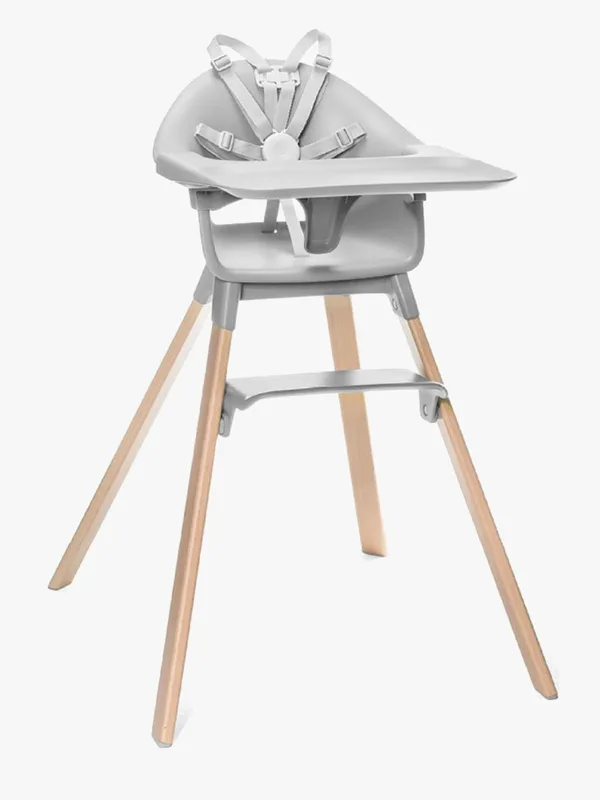
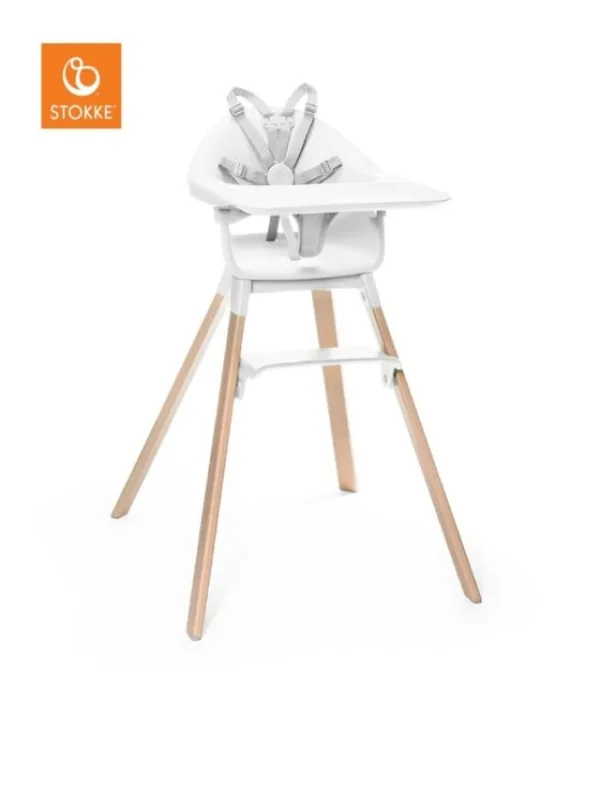
Fix 13 dead affiliate CTAs site-wide (dead product URLs redirecting to category pages)
- resestol #1: Stokke Clikk pekade på borttagen stolsdyna-URL -> Babyland Stokke Clikk matstol (Vit) + vit produktbild
- 7 same-store URL-byten (Jollyroom /babysitter/ -> /babysitters/ + omdöpta produktvägar): mam-nappar, beemoo-dally, bright-starts, ergobaby-evolve, beemoo-simple, ingenuity lära-gå-stol, besafe-stretch²
- 4 butiksbyten till exakt samma produkt: skip-hop->Babyland, hummel body Polignac->Babysam, nuna pine->Baby V, BabyBjörn Balance Soft (babysitter-vinnaren)->Baby V + prosa uppdaterad
- Städat 7 döda oanvända verified-links.ts entries

Alla ersättnings-URL:er feed-verifierade + destination live-kollad (200 direkt). Bygg + seo-audit + quality-gate grönt.

Changed region(s): [[0.06, 0.0312, 0.93, 0.9375], [0.06, 0.0312, 0.21, 0.1875]]

diff --git a/src/data/verified-links.ts b/src/data/verified-links.ts
@@ -28,7 +28,6 @@ export const VERIFIED_LINKS: Record<string, string> = {
   // (bekräftad fungerande via Adtraction broken-links 2026, samma som Babyland/Polarn O. Pyret).
   'Stor och Liten': 'https://at.storochliten.se/t/t?a=1060728464&as=2065068845&t=2&tk=1',
   // Bulk-importerade 2026-05-13 från befintliga tracker-URLs i pages (alla URLs kopierade exakt, inga konstruerade):
-  'Baby V_2': 'https://go.adt231.net/t/t?a=1327902115&as=2065068845&t=2&tk=1&url=https%3A%2F%2Fwww.babyv.se%2Fsv%2Farticles%2F2.73.167%2Fbabybjorn-barsele-one-air-svart-mesh',
   'Babyland_2': 'https://pin.babyland.se/t/t?a=1066444612&as=2065068845&t=2&tk=1&url=https%3A%2F%2Fwww.babyland.se%2Fbritax-romer-smile-5z-duovagn',
   'Babyland_3': 'https://pin.babyland.se/t/t?a=1066444612&as=2065068845&t=2&tk=1&url=https%3A%2F%2Fwww.babyland.se%2Fhauck-pacific-4-duovagn-gra-melange',
   'Babyland_4': 'https://pin.babyland.se/t/t?a=1066444612&as=2065068845&t=2&tk=1&url=https%3A%2F%2Fwww.babyland.se%2Fbritax-go-next2-paket',
@@ -38,7 +37,6 @@ export const VERIFIED_LINKS: Record<string, string> = {
   'Ergobaby_2': 'https://addrevenue.io/t?c=3467325&a=987575&m=SE&u=https%3A%2F%2Freirei.se%2Fproducts%2Felvie-pump-singel',
   'Ergobaby_3': 'https://addrevenue.io/t?c=3467325&a=987575&m=SE&u=https%3A%2F%2Freirei.se%2Fproducts%2Fergobaby-metro-3-stroller-onyx-black',
   'Ergobaby_4': 'https://addrevenue.io/t?c=3467325&a=987575&m=SE&u=https%3A%2F%2Freirei.se%2Fproducts%2Fergobaby-omni-360-svart',
-  'Ergobaby_5': 'https://addrevenue.io/t?a=987575&c=3467325&url=https%3A%2F%2Fwww.reirei.se%2Fbarselen',
   'Jollyroom_10': 'https://dot.jollyroom.se/t/t?a=1487384677&as=2065068845&t=2&tk=1&url=https%3A%2F%2Fwww.jollyroom.se%2Fmamma%2Famningsprodukter%2Fbrostpumpar-tillbehor%2Fphilips-avent-scf430-01-brostpump-manuell',
   'Jollyroom_100': 'https://dot.jollyroom.se/t/t?a=1487384677&as=2065068845&t=2&tk=1&url=https%3A%2F%2Fwww.jollyroom.se%2Fbabyprodukter%2Fbarselar-barsjalar%2Fbarselar%2Fflybaby-barsele-cinnamon',
   'Jollyroom_101': 'https://dot.jollyroom.se/t/t?a=1487384677&as=2065068845&t=2&tk=1&url=https%3A%2F%2Fwww.jollyroom.se%2Fbabyprodukter%2Fbarselar-barsjalar%2Fbarselar%2Fergobaby-embrace-barsele-pure-black',
@@ -107,9 +105,6 @@ export const VERIFIED_LINKS: Record<string, string> = {
   'Jollyroom_159': 'https://dot.jollyroom.se/t/t?a=1487384677&as=2065068845&t=2&tk=1&url=https%3A%2F%2Fwww.jollyroom.se%2Fbilstolar%2Fbilbarnstolar%2Fbakatvanda%2Fjoie-i-spin-xl-bilbarnstol-coal',
   'Jollyroom_16': 'https://dot.jollyroom.se/t/t?a=1487384677&as=2065068845&t=2&tk=1&url=https%3A%2F%2Fwww.jollyroom.se%2Fbabyprodukter%2Fnappar-napphallare%2Fnappar%2Fbibs-colour-napp-2-pack-latex-stl-1-rund-vanilla-glow-dark-oak-glow',
   'Jollyroom_160': 'https://dot.jollyroom.se/t/t?a=1487384677&as=2065068845&t=2&tk=1&url=https%3A%2F%2Fwww.jollyroom.se%2Fbarnvagnar%2Fsittvagnar%2Fjoie-pact-flex-signature-sittvagn-spice',
-  'Jollyroom_161': 'https://dot.jollyroom.se/t/t?a=1487384677&as=2065068845&t=2&tk=1&url=https%3A%2F%2Fwww.jollyroom.se%2Fsok%3Fq%3Dmaxi-cosi%2Bpebble%2B360%2Bpro',
-  'Jollyroom_162': 'https://dot.jollyroom.se/t/t?a=1487384677&as=2065068845&t=2&tk=1&url=https%3A%2F%2Fwww.jollyroom.se%2Fsok%3Fq%3Dmaxi-cosi%2Bcoral%2B360',
-  'Jollyroom_163': 'https://dot.jollyroom.se/t/t?a=1487384677&as=2065068845&t=2&tk=1&url=https%3A%2F%2Fwww.jollyroom.se%2Fsok%3Fq%3Dmaxi-cosi%2Bleona',
   'Jollyroom_164': 'https://dot.jollyroom.se/t/t?a=1487384677&as=2065068845&t=2&tk=1&url=https%3A%2F%2Fwww.jollyroom.se%2Fbarnvagnar%2Fsittvagnar%2Fframatvand-sittdel%2Fuppababy-cruz-v2-sittvagn-jordan-grey',
   'Jollyroom_165': 'https://dot.jollyroom.se/t/t?a=1487384677&as=2065068845&t=2&tk=1&url=https%3A%2F%2Fwww.jollyroom.se%2Fbilstolar%2Fbabyskydd%2Fbabyskydd%2Fuppababy-mesa-i-size-babyskydd-jordan-grey',
   'Jollyroom_166': 'https://dot.jollyroom.se/t/t?a=1487384677&as=2065068845&t=2&tk=1&url=https%3A%2F%2Fwww.jollyroom.se%2Fbabyprodukter%2Fbarnstolar-tillbehor%2Fbarnmatstolar%2Fbeemoo-care-eat-matstol-basil-green',
@@ -243,7 +238,6 @@ export const VERIFIED_LINKS: Record<string, string> = {
   'LEGACY_addrevenue_984911': 'https://addrevenue.io/t?a=984911&c=3467325&url=https%3A%2F%2Fwww.micki.se%2F',
   'LEGACY_addrevenue_984973': 'https://addrevenue.io/t?a=984973&c=3467325&url=https%3A%2F%2Fnajell.com%2F',
   'LEGACY_addrevenue_984973_2': 'https://addrevenue.io/t?c=3467325&a=984973&m=SE&u=https%3A%2F%2Fnajell.com%2Fsv-se%2Fp%2Fgravidkudde-powder-beige',
-  'LEGACY_addrevenue_984973_3': 'https://addrevenue.io/t?a=984973&c=3467325&url=https%3A%2F%2Fnajell.com%2Fsv-se%2Fp%2Fnajell-easy-soft-mercury-grey',
   'LEGACY_addrevenue_984973_4': 'https://addrevenue.io/t?c=3467325&a=984973&m=SE&u=https%3A%2F%2Fnajell.com%2Fsv-se%2Fp%2Foriginal-volume-3-night-black',
   'LEGACY_addrevenue_984973_5': 'https://addrevenue.io/t?c=3467325&a=984973&m=SE&u=https%3A%2F%2Fnajell.com%2Fsv-se%2Fp%2Feasy-volume-2-honey-beige',
   'LEGACY_addrevenue_984973_6': 'https://addrevenue.io/t?c=3467325&a=984973&m=SE&u=https%3A%2F%2Fnajell.com%2Fsv-se%2Fp%2Fwrap-powder-beige',
@@ -259,7 +253,6 @@ export const VERIFIED_LINKS: Record<string, string> = {
   'LEGACY_addrevenue_986599': 'https://addrevenue.io/t?a=986599&c=3467325&url=https%3A%2F%2Fwww.knattis.se%2F',
   'LEGACY_addrevenue_987009': 'https://addrevenue.io/t?a=987009&c=3467325&url=https%3A%2F%2Fwww.leksaksaffaren.com%2F',
   'LEGACY_addrevenue_987081': 'https://addrevenue.io/t?a=987081&c=3467325&url=https%3A%2F%2Fwww.babyonline.se%2F',
-  'LEGACY_addrevenue_987081_2': 'https://addrevenue.io/t?a=987081&c=3467325&url=https%3A%2F%2Fwww.babyonline.se%2Fbabybjorn%2F',
   'LEGACY_addrevenue_987691': 'https://addrevenue.io/t?a=987691&c=3467325&url=https%3A%2F%2Finoki.se%2F',
   'LEGACY_addrevenue_987691_2': 'https://addrevenue.io/t?c=3467325&a=987691&m=SE&u=https%3A%2F%2Finoki.se%2Fprodukt%2Fsmaknapp%2F%3Fattribute_pa_color%3Dforest-sage',
   'Pixido_2': 'https://addrevenue.io/t?a=987854&c=3467325&url=https%3A%2F%2Fwww.pixido.se%2F',